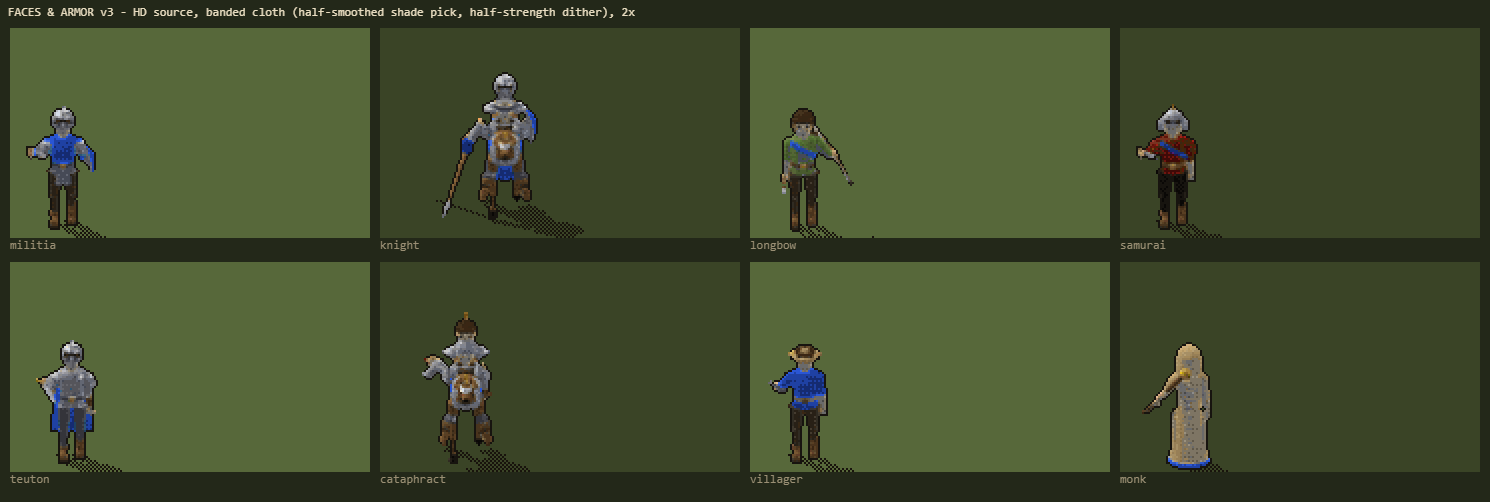
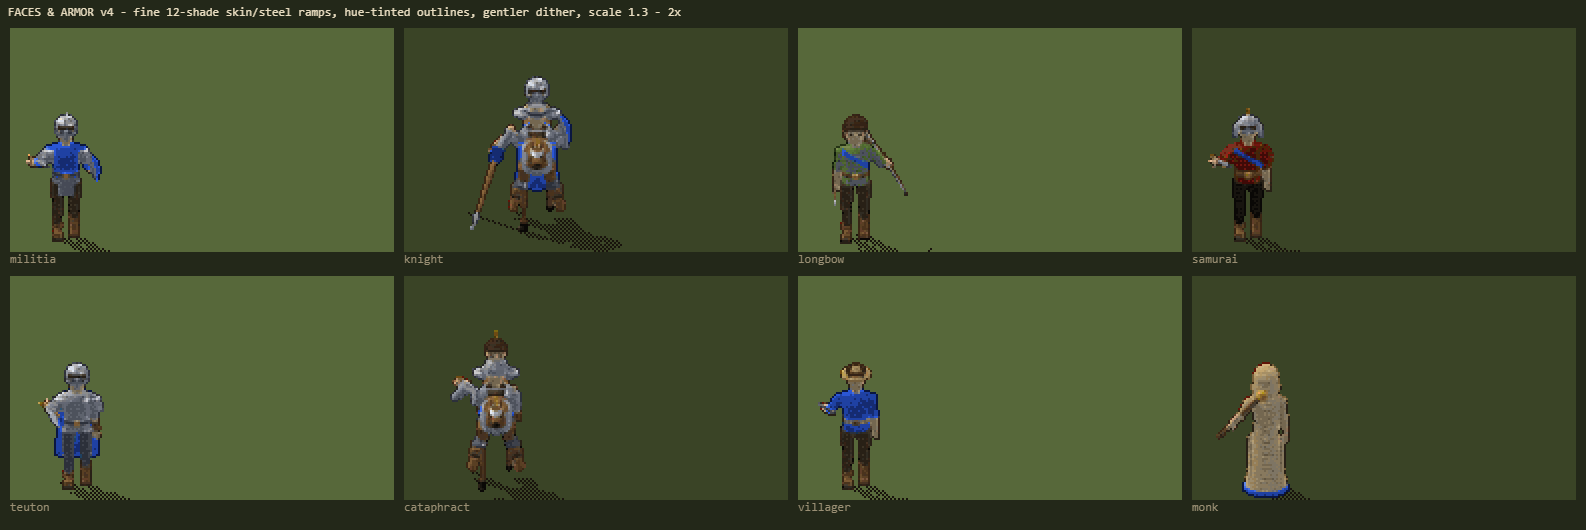
r99-human: fine ramps, hue-tinted outlines, gentler crunch, sw tq-v91
"Clearer and more actual human like, better resolution." The era's own
units were smoothly shaded - the dither lived in the terrain - so units
now quantize through new 12-shade skin/steel and 10-shade cloth ramps,
outlines became each surface's own darkest shade instead of a flat
near-black ring, unit dither/sharpen halved, and scale went to 1.3.
Faces read as flesh, plate as rounded steel, robes fall into folds.
npm test 10/10, all four baselines byte-identical.

diff --git a/app/index.html b/app/index.html
@@ -5978,6 +5978,13 @@ const R99={};
   R99.FIRE  =ramp(8,[96,20,8],[255,238,170]);     // ember -> white heart
   R99.SKIN99=ramp(6,[96,62,40],[232,190,150]);
   R99.STEEL =ramp(6,[70,74,86],[214,220,232]);
+  // FINE ramps (r99-human): the era's units were smoothly shaded — the dither
+  // lived in the TERRAIN. 12 shades let faces and plate band like flesh and
+  // rounded steel instead of 3-color posters; the LUT picks these over the
+  // coarse ramps automatically wherever they're nearer.
+  R99.SKINF =ramp(12,[52,34,22],[240,198,158]);
+  R99.STEELF=ramp(12,[44,48,58],[228,234,244]);
+  R99.CLOTHF=ramp(10,[40,32,22],[212,192,152]);
   R99.GOLD99=ramp(6,[110,74,18],[244,214,120]);
   R99.BONE  =ramp(8,[40,32,22],[240,230,205]);    // bone / parchment / cloth
   R99.TERRA9=ramp(6,[130,44,32],[235,150,120]);
@@ -6096,10 +6103,12 @@ const R99={};
       }
       idx[i]=bi;
     }
-    // outline on the index field: full warm-dark on thick bodies, one-two
-    // shades darker on thin features; rim tested against REAL transparency
-    // only (a cell-wall clip never grows a false edge)
-    const OC=R99.DARKS+1;
+    // outline on the index field: HUE-TINTED — the rim becomes its own ramp's
+    // DARKEST shade (team indices: the dark end of the 8-block), one shade
+    // down on thin features. A flat near-black ring read as a sticker; era
+    // sprites outlined in the surface's own dark. Rim tested against REAL
+    // transparency only (a cell-wall clip never grows a false edge).
+    const darkOf=i2=>i2<64?(i2&~7):RS[i2];
     const out=new Int16Array(idx);
     const tr=(xx,yy)=>xx<0||yy<0||xx>=w||yy>=h?0:(idx[yy*w+xx]<0?1:0);
     for(let y=0;y<h;y++)for(let x=0;x<w;x++){
@@ -6110,7 +6119,7 @@ const R99={};
         (tr(x+1,y)&&(tr(x-1,y)||tr(x-2,y)))||
         (tr(x,y-1)&&(tr(x,y+1)||tr(x,y+2)))||
         (tr(x,y+1)&&(tr(x,y-1)||tr(x,y-2)));
-      out[i]=thin?Math.max(RS[idx[i]],idx[i]-1):OC;  // one shade, limbs stay bright
+      out[i]=thin?Math.max(darkOf(idx[i]),idx[i]-1):darkOf(idx[i]);
     }
     for(let i=0;i<n;i++){const q=i*4;
       if(out[i]<0){d[q+3]=0;continue;}
@@ -10165,7 +10174,7 @@ function sprGet99(key,an,p,eff){
   // to 1.12 for silhouette mass ("stick figure"), then to 1.22 so the HD
   // sheets' faces and armor have screen pixels to live on ("I want to see
   // faces"). Still well under building scale (BLD_VS2D 1.41).
-  const S0=SPR_SCALE/(USPR.res||1)*eff*1.22,cw=meta.cell[0],ch=meta.cell[1];
+  const S0=SPR_SCALE/(USPR.res||1)*eff*1.3,cw=meta.cell[0],ch=meta.cell[1];
   const ncw=Math.max(1,Math.round(cw*S0)),nch=Math.max(1,Math.round(ch*S0));
   const c=document.createElement('canvas');c.width=ncw*m.frames;c.height=nch*8;
   const g=c.getContext('2d');g.imageSmoothingEnabled=true;g.imageSmoothingQuality='high';
@@ -10179,7 +10188,9 @@ function sprGet99(key,an,p,eff){
       mg.drawImage(msk,f*cw,r*ch,cw,ch,f*ncw,r*nch,ncw,nch);
     mi=mg.getImageData(0,0,c.width,c.height).data;
   }
-  R99.post(c,{mask:mi,team,amp:12,at:72}); // at 72: keep the silhouette MASS
+  // amp 8 / sharp .6 (was 12/.8): with the fine ramps carrying the shading,
+  // heavy dither+sharpen reads as crunch, not detail. at 72 keeps the MASS.
+  R99.post(c,{mask:mi,team,amp:8,sharp:.6,at:72});
   const ax=Math.round(meta.anchorX*ncw/cw),ay=Math.round(meta.anchorY*nch/ch);
   const shk=key+'/'+an+'/sh99'+(eff>1?'x2':'');    // shadows carry no colour: shared
   const sh=USPR.tint[shk]||(USPR.tint[shk]=sprShadow99(c,ncw,nch,ax,ay,m.frames));
@@ -17630,7 +17641,7 @@ requestAnimationFrame(frame);
 
 <script>
 (function(){
-  var BUILD = 'tq-v90';
+  var BUILD = 'tq-v91';
   // The game reads this for the multiplayer version gate (gameVer() falls back
   // to 'dev' when the wrapper is absent, i.e. local test.html / the artifact).
   window.GAMEVER = BUILD;

diff --git a/tiny-conquerors.html b/tiny-conquerors.html
@@ -5968,6 +5968,13 @@ const R99={};
   R99.FIRE  =ramp(8,[96,20,8],[255,238,170]);     // ember -> white heart
   R99.SKIN99=ramp(6,[96,62,40],[232,190,150]);
   R99.STEEL =ramp(6,[70,74,86],[214,220,232]);
+  // FINE ramps (r99-human): the era's units were smoothly shaded — the dither
+  // lived in the TERRAIN. 12 shades let faces and plate band like flesh and
+  // rounded steel instead of 3-color posters; the LUT picks these over the
+  // coarse ramps automatically wherever they're nearer.
+  R99.SKINF =ramp(12,[52,34,22],[240,198,158]);
+  R99.STEELF=ramp(12,[44,48,58],[228,234,244]);
+  R99.CLOTHF=ramp(10,[40,32,22],[212,192,152]);
   R99.GOLD99=ramp(6,[110,74,18],[244,214,120]);
   R99.BONE  =ramp(8,[40,32,22],[240,230,205]);    // bone / parchment / cloth
   R99.TERRA9=ramp(6,[130,44,32],[235,150,120]);
@@ -6086,10 +6093,12 @@ const R99={};
       }
       idx[i]=bi;
     }
-    // outline on the index field: full warm-dark on thick bodies, one-two
-    // shades darker on thin features; rim tested against REAL transparency
-    // only (a cell-wall clip never grows a false edge)
-    const OC=R99.DARKS+1;
+    // outline on the index field: HUE-TINTED — the rim becomes its own ramp's
+    // DARKEST shade (team indices: the dark end of the 8-block), one shade
+    // down on thin features. A flat near-black ring read as a sticker; era
+    // sprites outlined in the surface's own dark. Rim tested against REAL
+    // transparency only (a cell-wall clip never grows a false edge).
+    const darkOf=i2=>i2<64?(i2&~7):RS[i2];
     const out=new Int16Array(idx);
     const tr=(xx,yy)=>xx<0||yy<0||xx>=w||yy>=h?0:(idx[yy*w+xx]<0?1:0);
     for(let y=0;y<h;y++)for(let x=0;x<w;x++){
@@ -6100,7 +6109,7 @@ const R99={};
         (tr(x+1,y)&&(tr(x-1,y)||tr(x-2,y)))||
         (tr(x,y-1)&&(tr(x,y+1)||tr(x,y+2)))||
         (tr(x,y+1)&&(tr(x,y-1)||tr(x,y-2)));
-      out[i]=thin?Math.max(RS[idx[i]],idx[i]-1):OC;  // one shade, limbs stay bright
+      out[i]=thin?Math.max(darkOf(idx[i]),idx[i]-1):darkOf(idx[i]);
     }
     for(let i=0;i<n;i++){const q=i*4;
       if(out[i]<0){d[q+3]=0;continue;}
@@ -10155,7 +10164,7 @@ function sprGet99(key,an,p,eff){
   // to 1.12 for silhouette mass ("stick figure"), then to 1.22 so the HD
   // sheets' faces and armor have screen pixels to live on ("I want to see
   // faces"). Still well under building scale (BLD_VS2D 1.41).
-  const S0=SPR_SCALE/(USPR.res||1)*eff*1.22,cw=meta.cell[0],ch=meta.cell[1];
+  const S0=SPR_SCALE/(USPR.res||1)*eff*1.3,cw=meta.cell[0],ch=meta.cell[1];
   const ncw=Math.max(1,Math.round(cw*S0)),nch=Math.max(1,Math.round(ch*S0));
   const c=document.createElement('canvas');c.width=ncw*m.frames;c.height=nch*8;
   const g=c.getContext('2d');g.imageSmoothingEnabled=true;g.imageSmoothingQuality='high';
@@ -10169,7 +10178,9 @@ function sprGet99(key,an,p,eff){
       mg.drawImage(msk,f*cw,r*ch,cw,ch,f*ncw,r*nch,ncw,nch);
     mi=mg.getImageData(0,0,c.width,c.height).data;
   }
-  R99.post(c,{mask:mi,team,amp:12,at:72}); // at 72: keep the silhouette MASS
+  // amp 8 / sharp .6 (was 12/.8): with the fine ramps carrying the shading,
+  // heavy dither+sharpen reads as crunch, not detail. at 72 keeps the MASS.
+  R99.post(c,{mask:mi,team,amp:8,sharp:.6,at:72});
   const ax=Math.round(meta.anchorX*ncw/cw),ay=Math.round(meta.anchorY*nch/ch);
   const shk=key+'/'+an+'/sh99'+(eff>1?'x2':'');    // shadows carry no colour: shared
   const sh=USPR.tint[shk]||(USPR.tint[shk]=sprShadow99(c,ncw,nch,ax,ay,m.frames));

diff --git a/src/20-render2d.js b/src/20-render2d.js
@@ -147,6 +147,13 @@ const R99={};
   R99.FIRE  =ramp(8,[96,20,8],[255,238,170]);     // ember -> white heart
   R99.SKIN99=ramp(6,[96,62,40],[232,190,150]);
   R99.STEEL =ramp(6,[70,74,86],[214,220,232]);
+  // FINE ramps (r99-human): the era's units were smoothly shaded — the dither
+  // lived in the TERRAIN. 12 shades let faces and plate band like flesh and
+  // rounded steel instead of 3-color posters; the LUT picks these over the
+  // coarse ramps automatically wherever they're nearer.
+  R99.SKINF =ramp(12,[52,34,22],[240,198,158]);
+  R99.STEELF=ramp(12,[44,48,58],[228,234,244]);
+  R99.CLOTHF=ramp(10,[40,32,22],[212,192,152]);
   R99.GOLD99=ramp(6,[110,74,18],[244,214,120]);
   R99.BONE  =ramp(8,[40,32,22],[240,230,205]);    // bone / parchment / cloth
   R99.TERRA9=ramp(6,[130,44,32],[235,150,120]);
@@ -265,10 +272,12 @@ const R99={};
       }
       idx[i]=bi;
     }
-    // outline on the index field: full warm-dark on thick bodies, one-two
-    // shades darker on thin features; rim tested against REAL transparency
-    // only (a cell-wall clip never grows a false edge)
-    const OC=R99.DARKS+1;
+    // outline on the index field: HUE-TINTED — the rim becomes its own ramp's
+    // DARKEST shade (team indices: the dark end of the 8-block), one shade
+    // down on thin features. A flat near-black ring read as a sticker; era
+    // sprites outlined in the surface's own dark. Rim tested against REAL
+    // transparency only (a cell-wall clip never grows a false edge).
+    const darkOf=i2=>i2<64?(i2&~7):RS[i2];
     const out=new Int16Array(idx);
     const tr=(xx,yy)=>xx<0||yy<0||xx>=w||yy>=h?0:(idx[yy*w+xx]<0?1:0);
     for(let y=0;y<h;y++)for(let x=0;x<w;x++){
@@ -279,7 +288,7 @@ const R99={};
         (tr(x+1,y)&&(tr(x-1,y)||tr(x-2,y)))||
         (tr(x,y-1)&&(tr(x,y+1)||tr(x,y+2)))||
         (tr(x,y+1)&&(tr(x,y-1)||tr(x,y-2)));
-      out[i]=thin?Math.max(RS[idx[i]],idx[i]-1):OC;  // one shade, limbs stay bright
+      out[i]=thin?Math.max(darkOf(idx[i]),idx[i]-1):darkOf(idx[i]);
     }
     for(let i=0;i<n;i++){const q=i*4;
       if(out[i]<0){d[q+3]=0;continue;}
@@ -4334,7 +4343,7 @@ function sprGet99(key,an,p,eff){
   // to 1.12 for silhouette mass ("stick figure"), then to 1.22 so the HD
   // sheets' faces and armor have screen pixels to live on ("I want to see
   // faces"). Still well under building scale (BLD_VS2D 1.41).
-  const S0=SPR_SCALE/(USPR.res||1)*eff*1.22,cw=meta.cell[0],ch=meta.cell[1];
+  const S0=SPR_SCALE/(USPR.res||1)*eff*1.3,cw=meta.cell[0],ch=meta.cell[1];
   const ncw=Math.max(1,Math.round(cw*S0)),nch=Math.max(1,Math.round(ch*S0));
   const c=document.createElement('canvas');c.width=ncw*m.frames;c.height=nch*8;
   const g=c.getContext('2d');g.imageSmoothingEnabled=true;g.imageSmoothingQuality='high';
@@ -4348,7 +4357,9 @@ function sprGet99(key,an,p,eff){
       mg.drawImage(msk,f*cw,r*ch,cw,ch,f*ncw,r*nch,ncw,nch);
     mi=mg.getImageData(0,0,c.width,c.height).data;
   }
-  R99.post(c,{mask:mi,team,amp:12,at:72}); // at 72: keep the silhouette MASS
+  // amp 8 / sharp .6 (was 12/.8): with the fine ramps carrying the shading,
+  // heavy dither+sharpen reads as crunch, not detail. at 72 keeps the MASS.
+  R99.post(c,{mask:mi,team,amp:8,sharp:.6,at:72});
   const ax=Math.round(meta.anchorX*ncw/cw),ay=Math.round(meta.anchorY*nch/ch);
   const shk=key+'/'+an+'/sh99'+(eff>1?'x2':'');    // shadows carry no colour: shared
   const sh=USPR.tint[shk]||(USPR.tint[shk]=sprShadow99(c,ncw,nch,ax,ay,m.frames));

diff --git a/app/sw.js b/app/sw.js
@@ -1,6 +1,6 @@
 // Tiny Conquerors service worker - offline-capable, but never stale.
 // Bump VERSION on every deploy; old caches are purged on activate.
-const VERSION = 'tq-v90';
+const VERSION = 'tq-v91';
 const ASSETS = ['./', './index.html', './manifest.webmanifest', './icon-192.png', './icon-512.png'];
 // Unit sprite sheets get their own cache that VERSION bumps do NOT purge: they
 // are ~23MB, immutable per filename, and re-downloading the lot on every deploy

diff --git a/HANDOFF.md b/HANDOFF.md
@@ -342,6 +342,11 @@ The Blender sheets now draw in the game. **Purely cosmetic — all four determin
 - Toggle: the **✦ button** beside `3D`, or `toggleSprites()`.
 
 ## Recent fixes (last published state)
+- Label "r99-human" (2026-08-20, sw **tq-v91**). Daniel's sixth note — "clearer and more actual human like, better resolution" — met by relaxing the crunch where the ERA itself was smooth: AoE2's unit sprites were smoothly shaded; the dither lived in the terrain. `npm test` 10/10, baselines byte-identical.
+  - **Fine palette ramps**: SKINF (12 shades), STEELF (12), CLOTHF (10) added to PAL99 (R99.N 184→222; the lazy LUT picks them over the coarse ramps automatically wherever nearer). Faces band like flesh, plate reads rounded, robes fall into folds instead of 3-color posters.
+  - **Hue-tinted outlines**: the rim is now its own ramp's DARKEST shade (`darkOf()` — team indices take the dark end of their 8-block, `i&~7`) instead of the flat DARKS near-black, thin features one shade down. Kills the sticker-cut read; silhouettes still hold on grass. Applies to everything through R99.post (buildings/trees get natural dark-of-their-hue edges too).
+  - **Units process at amp 8 / sharp .6** (was 12/.8) — with fine ramps carrying the shading, heavy dither+sharpen read as crunch, not detail. **Scale 1.3** (third bump: 1.12 mass → 1.22 HD detail → 1.3 human presence).
+  - Honest limit stated to Daniel: proportions are the MODELS' (heroic: big head/hands, stubby legs — forge gotcha 5 made them that way for 22px readability). At the new 60px-on-screen, semi-realistic proportions are viable — but that's a tc_forge rig change + ~3.3h HD re-render, a separate session with his go-ahead.
 - Label "r99-fidelity" (2026-08-20, sw **tq-v90**). Daniel's fifth note — "I want to see faces, armor details and just a much better look" — answered by finally feeding the chain the right SOURCE. `npm test` 10/10, baselines byte-identical.
   - **Classic always prefers the HD sheets** (sprInit: `wantHD = dpr>=2 || OPT.r99`, still behind the OPT.hdSprites opt-out): the chain's close-zoom bake now downscales the 110px-man renders — sculpted faces, mail rings, plate wear from the third forge art pass — instead of the 55px SD man, who has no face to give. Boot-time choice; a mid-session toggle keeps whichever pack loaded. **Cost note: dpr-1 devices with Classic on now pull the 72MB HD pack** (immutable sprite cache, one-time; phones at dpr>=2 already did since G4).
   - **Classic unit scale 1.12 → 1.22** so the recovered detail has screen pixels to live on. Still under BLD_VS2D 1.41.
